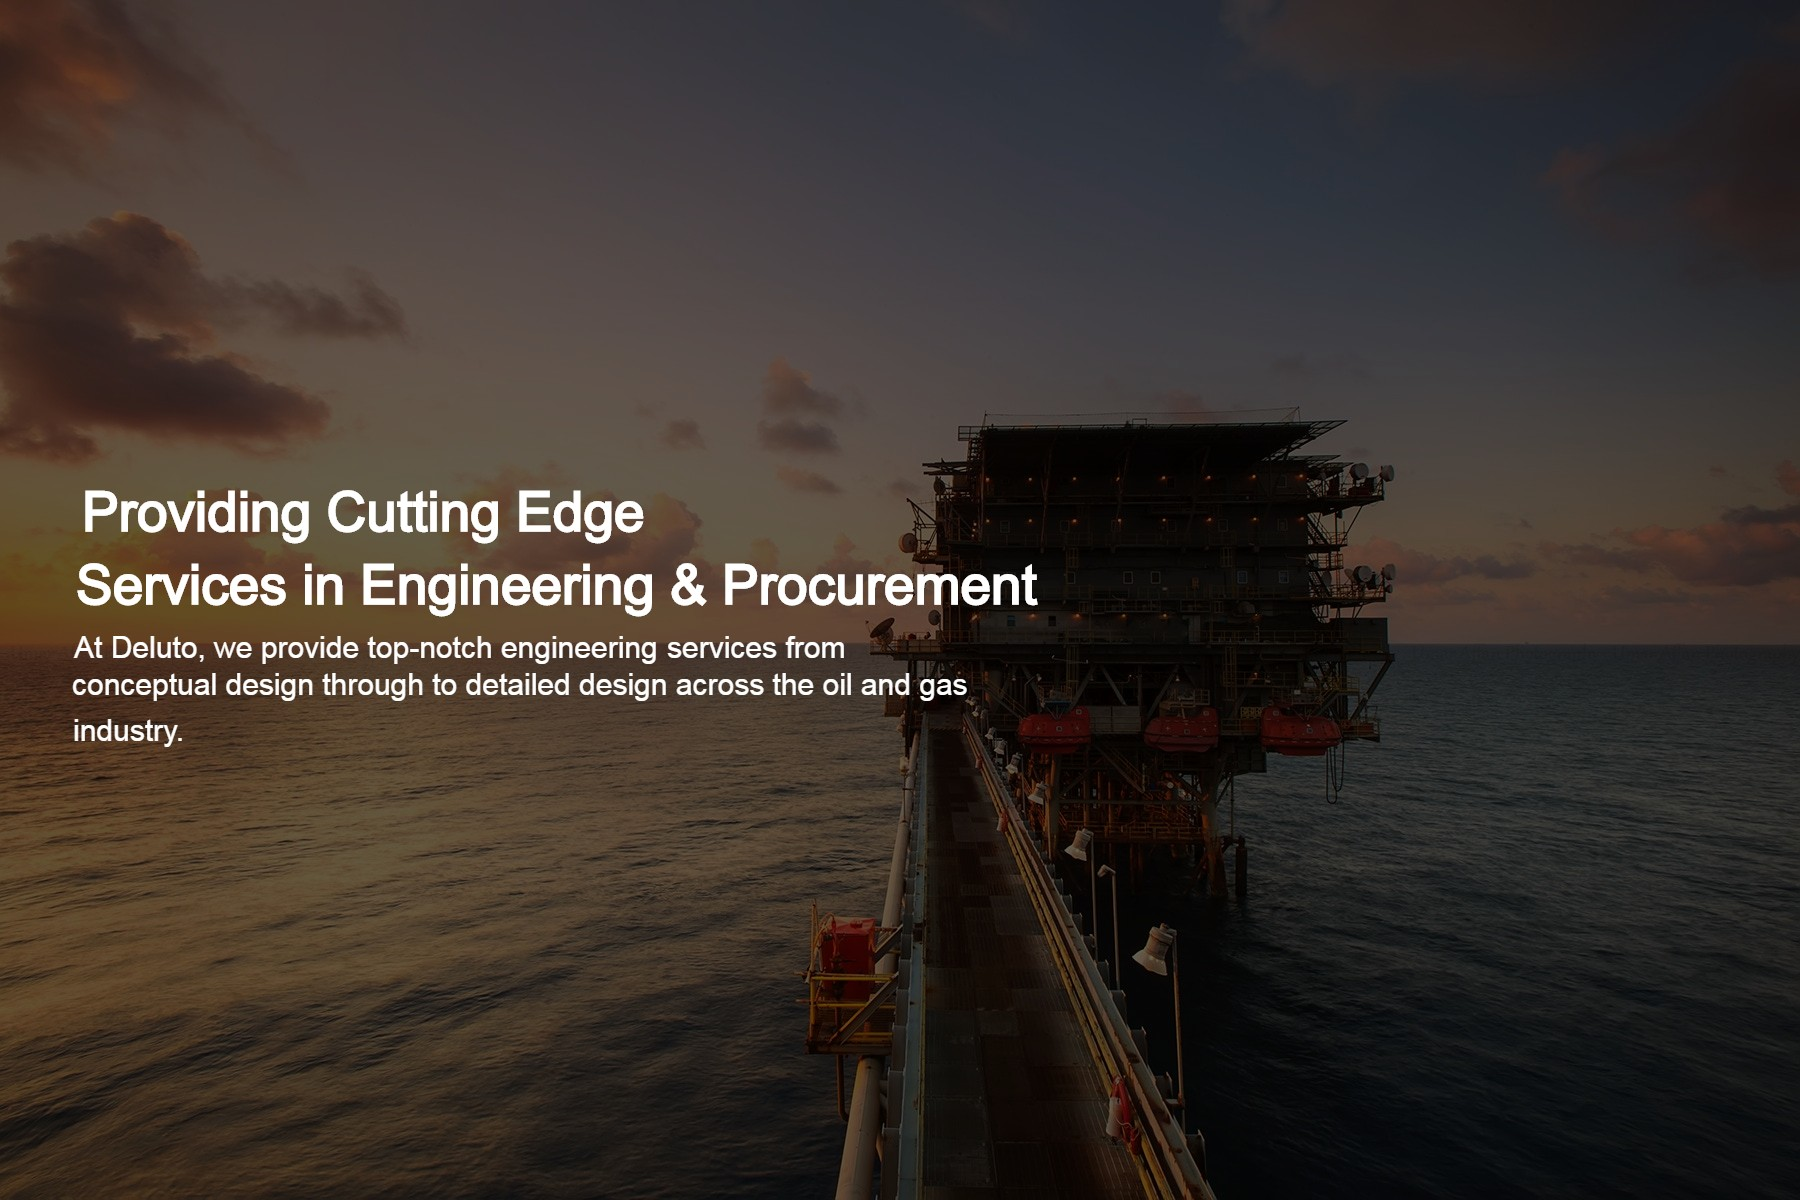
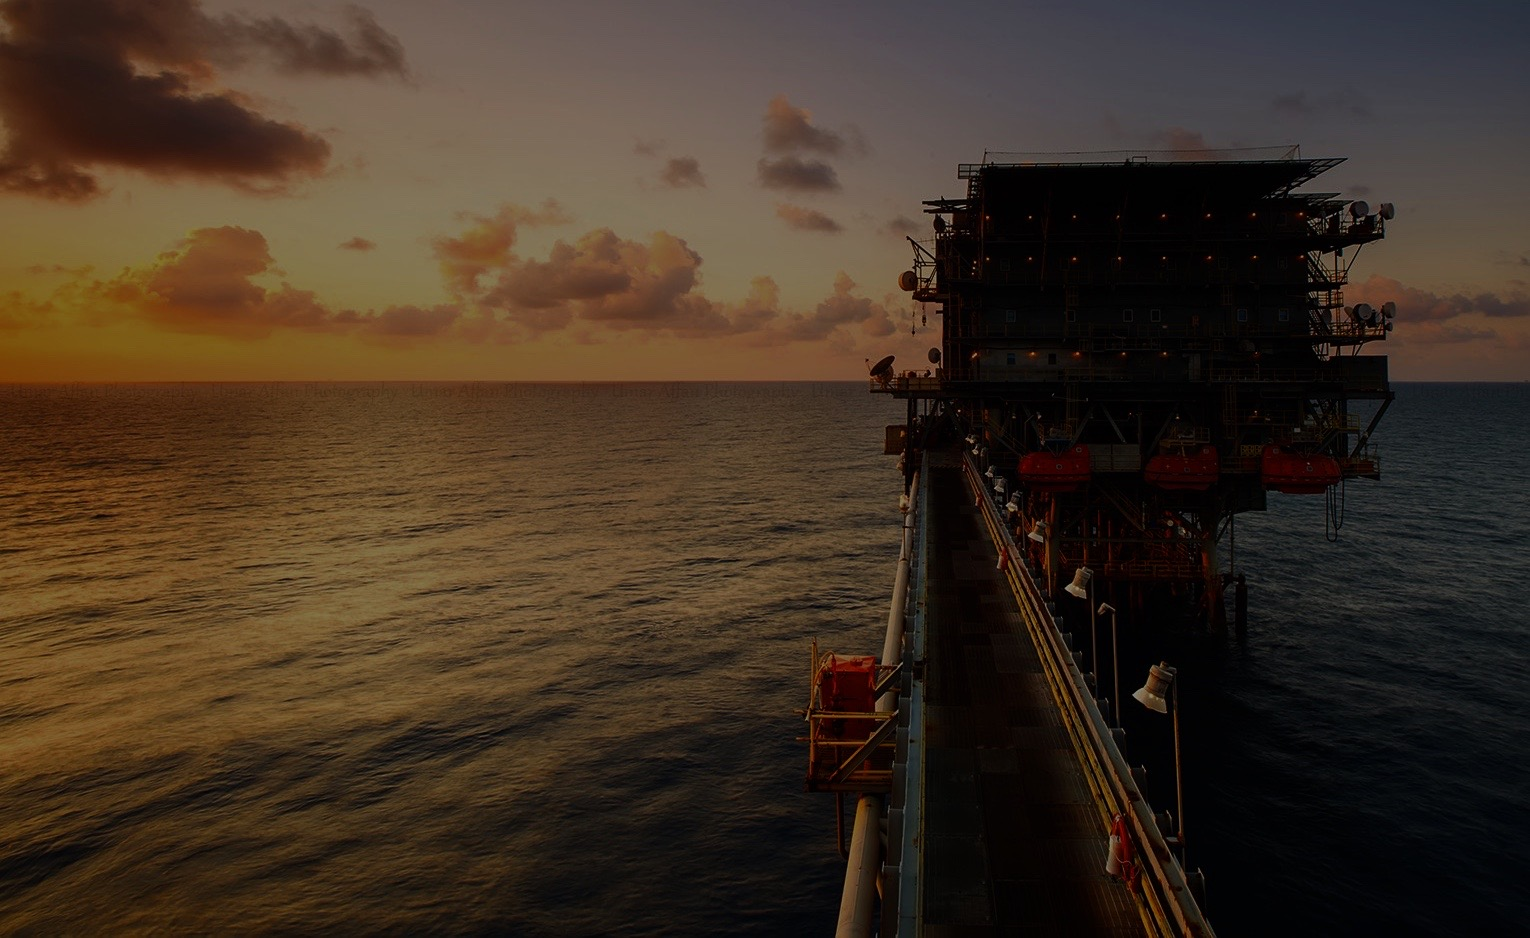
added even more things

diff --git a/index.html b/index.html
@@ -52,7 +52,13 @@
    <!--Hero Section-->
    <section id="hero">
       <div class="hero-container">
-        
+        <!-- <p class = "hero-text">
+          <h1>Providing Cutting Edge <br> Services in Engineering & Procurement</h1>
+          At Deluto, we provide top-notch engineering services from <br>
+          conceptual design through to detailed design across the oil and gas <br>
+          industry.
+
+        </p> -->
 
       </div>
           
@@ -61,7 +67,7 @@
    <main id = "main">
   <!--About Section-->
     <section id = "about">
-      <div class = "container">
+      <div class = "container" style ="margin-bottom:100px;">
         <div class = "row">
           <div class="col-lg-6 order-1 order-lg-2">
             <img src="assets/Group 13.svg" class="img-fluid" alt=""/>
@@ -86,7 +92,7 @@
 
         </div>
       </div>
-      <br>
+      
       <div class ="container">
        <div class ="row">
          <div class ="col-4">
@@ -128,7 +134,10 @@
        <br>
        <div class = "row">
         <div class="col-lg-6 order-1 order-lg-2">
-          <img src="assets/Bitmap Copy 2.svg" class="img-fluid" alt="">
+          <div class = "card">
+            <img src="assets/Bitmap Copy 2.svg" class="img-fluid" alt="">
+          </div>
+          
         </div>
         <div class="col-lg-6 pt-4 pt-lg-0 order-2 order-lg-1 content">
         <ul class ="services-list">
@@ -174,7 +183,15 @@
 
       </div>
      </div>
+
+     
    </section>
+
+   
+  <section id = "work">
+    <img src="assets/work.JPG" class="img-fluid" alt="">
+  </section>
+
 
 
    <section id = "team">
@@ -206,7 +223,7 @@
        <br>
       <div class = "row">
         <div class="col-lg-6 order-1 order-lg-2">
-          <img src="assets/Group 3676 Copy.svg." class="img-fluid" alt="">
+          <img src="assets/Group 3676 Copy.svg" class="img-fluid" alt="">
         </div>
         <div class="col-lg-6 pt-4 pt-lg-0 order-2 order-lg-1 content">
             <p class="contact-text"><strong>Lagos Office:</strong> <br>295 Herbert Macualay Way , Yaba Lagos</p>
@@ -222,11 +239,10 @@
    </section>
    <footer class = "footer">
     
-  <div class = "container">
     <div class="copyright">
-      &copy; Copyright 2020 <strong><span>Deluto</span></strong>. All rights reserved
+      &copy; Copyright 2020. Deluto. All rights reserved
     </div>
-  </div>
+  
     
         
       

diff --git a/style.css b/style.css
@@ -1,12 +1,15 @@
-body {
+*{
     font-family: Lato;
-  }
+    scroll-behavior: smooth;
+}
+
 
 #header {
     transition: all 0.5s;
     z-index: 997;
     padding: 20px 0;
-  }
+    font-family: ".SF NS Display";
+    }
   
   #header .logo {
     font-size: 32px;
@@ -26,26 +29,12 @@ body {
     max-height: 40px;
   }
   
-  #header.header-scrolled, #header.header-inner-pages {
-    background: #fff;
-    box-shadow: 0px 2px 15px rgba(0, 0, 0, 0.1);
-    padding: 12px 0;
-  }
-  
-  #header.header-scrolled .logo a, #header.header-inner-pages .logo a {
-    color: #493c3e;
-  }
-  
-  @media (max-width: 992px) {
-    #header .logo {
-      font-size: 28px;
-    }
-  }
+ 
 
   #hero {
     width: 100%;
     height: 100vh;
-    background: url("assets/landscape (1).jpg") top center;
+    background: url("assets/landscape.JPG") top center;
     background-size: cover;
     position: relative;
   }
@@ -147,4 +136,23 @@ body {
     left: 0;
     bottom: 0;
     width: 100%;
+    padding-top: 20px;
+    padding-bottom: 20px;
+}
+#services .collapse{
+    background-color: #F7F7F7;
+
+}
+
+.card{
+    padding-left: 0px;
+    padding-right: 0px;
+    padding-bottom: 60px;
+    padding-top: 60px;
+    box-shadow: 0 2px 13px 0 rgba(150,150,150,0.2);
+}
+
+
+.hero-text{
+    font-weight: bold;
 }
